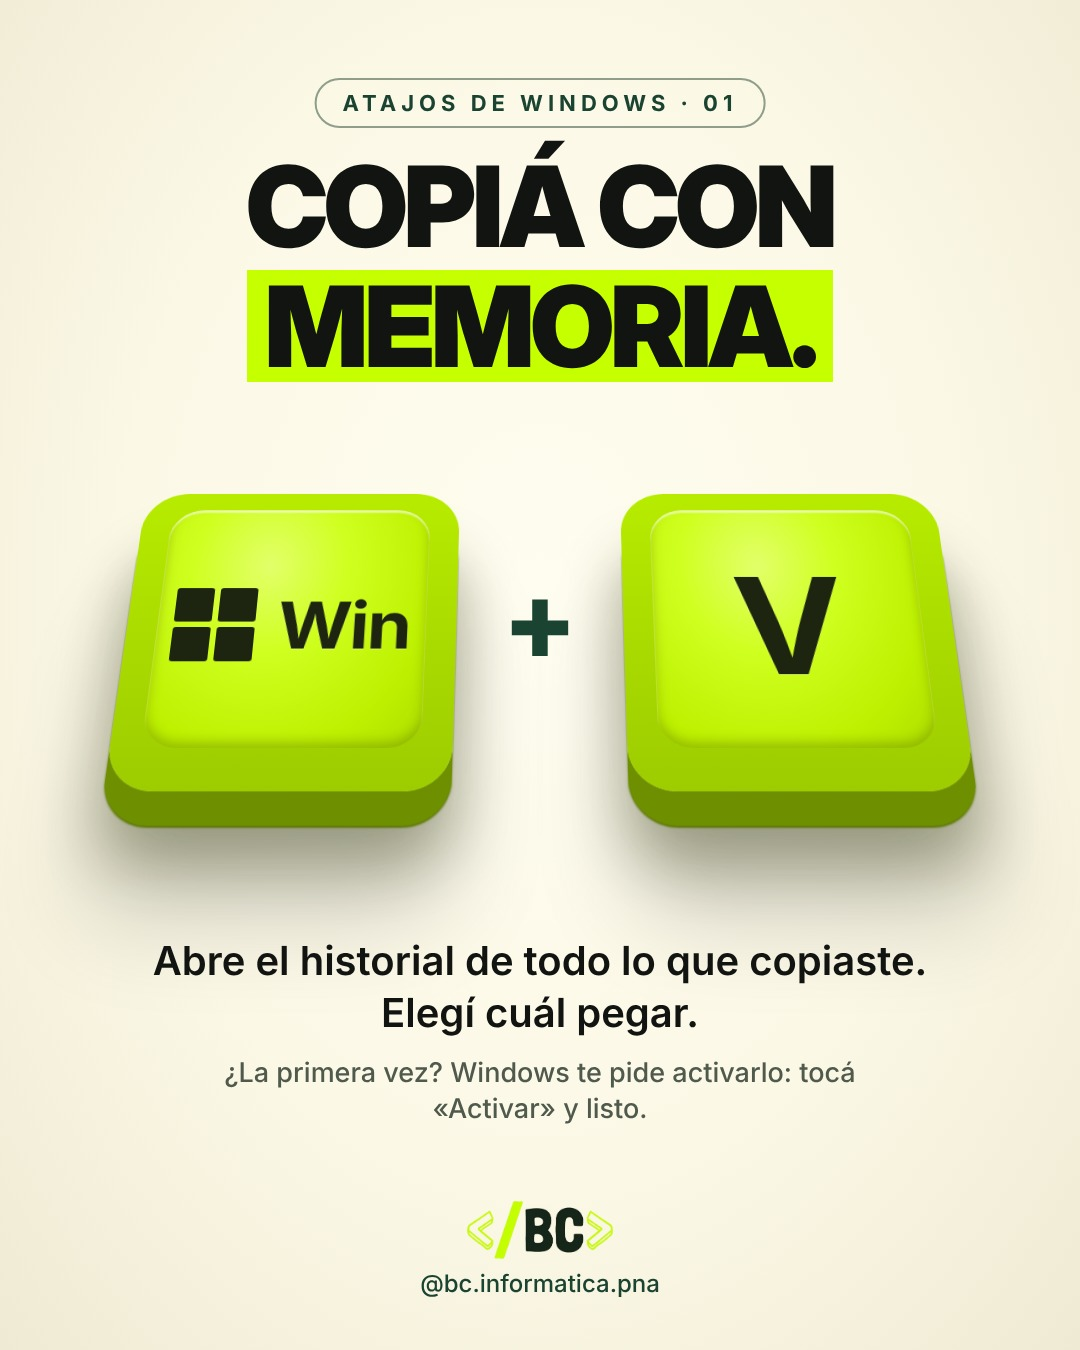
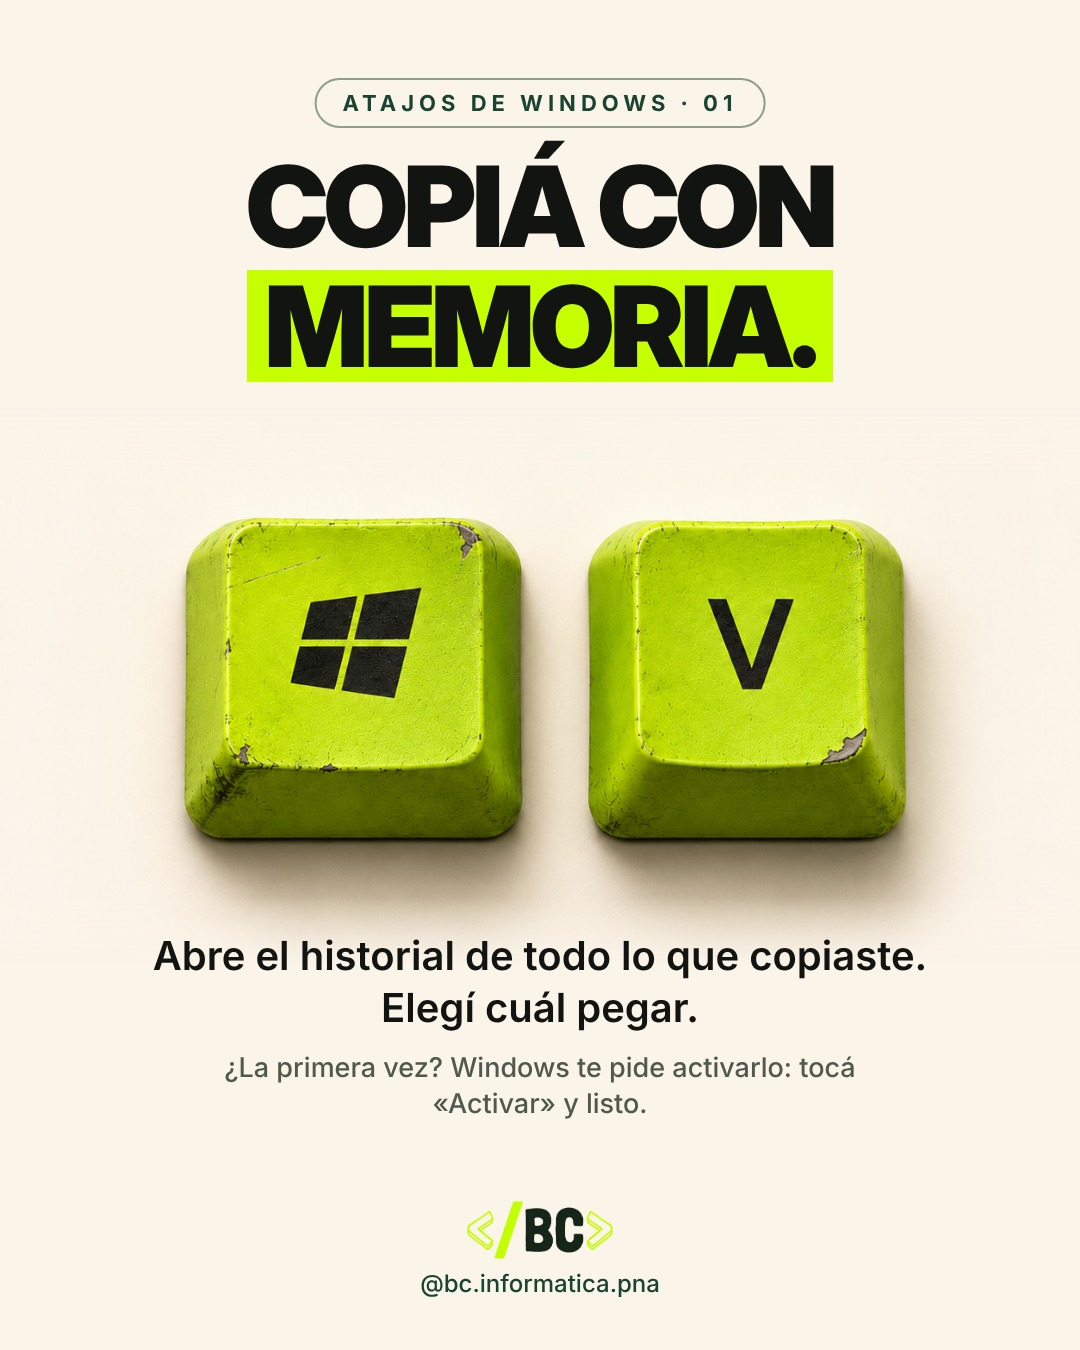
Atajos 01 (Win+V) con teclas fotorrealistas
Claude-Session: https://claude.ai/code/session_01S38piqMs7XU2kiFMpTQa8A

Changed region(s): [[0.0611, 0.3422, 0.9472, 0.84]]

diff --git a/borradores/atajos/winv2.html b/borradores/atajos/winv2.html
@@ -1,0 +1,29 @@
+<!doctype html><html><head><meta charset="utf-8"><style>
+*{margin:0;padding:0;box-sizing:border-box}
+body{width:1080px;height:1350px;background:#FBF4E9;font-family:'Inter';color:#121412;position:relative;overflow:hidden}
+h1,.sub,.sub2,.tag,.foot{z-index:2}
+.tag{position:absolute;top:78px;left:50%;transform:translateX(-50%);font:700 22px 'Inter';letter-spacing:5px;color:#1B4332;border:2px solid #8F9E8B;border-radius:40px;padding:10px 26px;white-space:nowrap}
+h1{position:absolute;top:150px;width:100%;text-align:center;font:900 112px/1.0 'Inter Display';letter-spacing:-4px}
+h1 .hl{background:#C6FF00;padding:0 18px;display:inline-block;margin-top:8px}
+.keys{position:absolute;top:470px;left:0;width:100%;display:flex;justify-content:center;align-items:center;gap:46px;perspective:1400px}
+.key{width:330px;height:330px;position:relative;transform:rotateX(26deg);transform-style:preserve-3d}
+.cap{position:absolute;inset:0;border-radius:46px;background:linear-gradient(180deg,#B7EC00 0%,#9DCC00 100%);box-shadow:0 34px 0 #6E8F00,0 36px 2px #5C7800,0 70px 60px rgba(40,50,0,.35),0 120px 90px rgba(0,0,0,.18)}
+.top{position:absolute;left:30px;right:30px;top:20px;bottom:44px;border-radius:34px;background:radial-gradient(ellipse at 40% 25%,#E2FF6A 0%,#CFFF1F 35%,#BDF000 75%,#AEDF00 100%);box-shadow:inset 0 3px 2px rgba(255,255,255,.6),inset 0 -6px 12px rgba(80,100,0,.35);display:flex;align-items:center;justify-content:center;gap:22px}
+.lbl{font:700 92px 'Inter';color:#1d2410;letter-spacing:-2px;text-shadow:0 1px 0 rgba(255,255,255,.35)}
+.win{display:grid;grid-template-columns:38px 38px;gap:6px}
+.win i{width:38px;height:38px;background:#1d2410;display:block;border-radius:3px}
+.plus{font:800 110px 'Inter';color:#1B4332;margin-top:-30px}
+.sub{position:absolute;top:930px;width:100%;text-align:center;font:600 40px/1.3 'Inter';color:#121412;padding:0 110px}
+.sub2{position:absolute;top:1050px;width:100%;text-align:center;font:500 27px/1.35 'Inter';color:#4f5a4d;padding:0 170px}
+.foto{position:absolute;left:0;top:405px;width:1080px;z-index:0;-webkit-mask-image:linear-gradient(180deg,transparent 0%,#000 12%,#000 88%,transparent 100%)}
+.foot{position:absolute;bottom:52px;width:100%;display:flex;flex-direction:column;align-items:center;gap:10px}
+.foot img{height:58px}
+.foot span{font:500 24px 'Inter';color:#1B4332}
+</style></head><body>
+<div class="tag">ATAJOS DE WINDOWS · 01</div>
+<h1>COPIÁ CON<br><span class="hl">MEMORIA.</span></h1>
+<img class="foto" src="teclas_crop.png">
+<div class="sub">Abre el historial de todo lo que copiaste.<br>Elegí cuál pegar.</div>
+<div class="sub2">¿La primera vez? Windows te pide activarlo: tocá «Activar» y listo.</div>
+<div class="foot"><img src="logo.png"><span>@bc.informatica.pna</span></div>
+</body></html>
